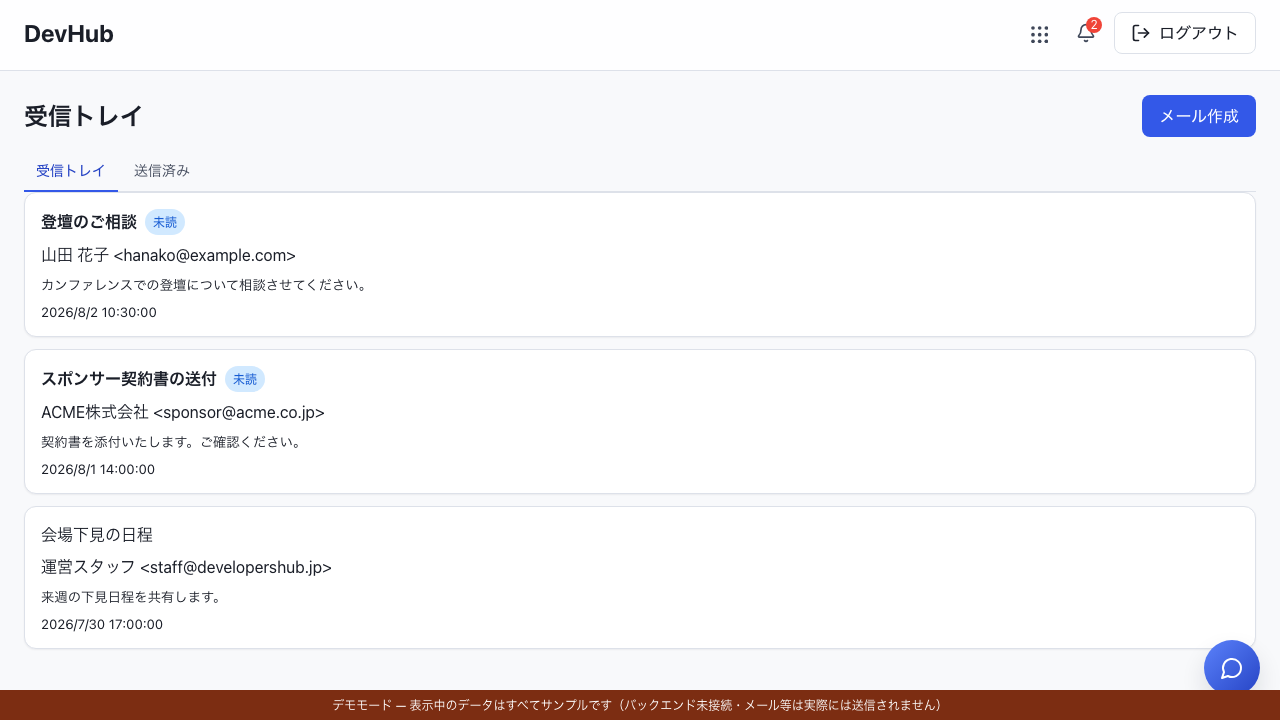
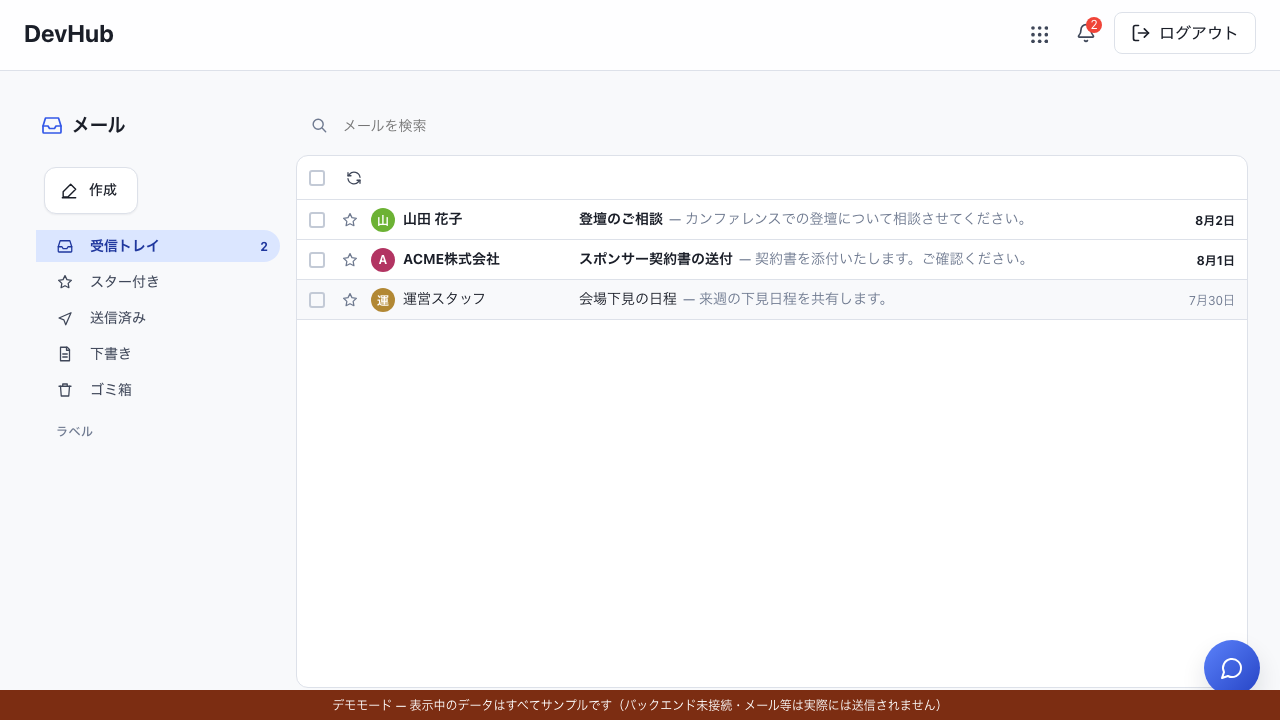
test(fe2-mail): gateway-driven GmailApp tests + reload-persistence E2E, re-captured shots
- gmail.test.tsx: asserts the EMPTY live initial state, SET_THREADS/HYDRATE_THREAD, and
  drives GmailApp render tests off the MailApi (Inbox/Sent hydrate, open loads the body,
  folder switch lists sent) via a QueryClient + seeded fake API.
- mail.test.tsx: dropped the folded-in SentScreen/MailFolderTabs specs; kept the
  listSent/getSent api-mapping tests.
- e2e/mail.spec.ts: rewritten against the real /mail GmailApp — (a) fresh load is CLEAN
  (no demo pile), (b) opening an inbox message clears its unread badge, (c) compose->send
  lands in Sent AND survives a full page reload (persisted via GET /mail/sent). Re-captured
  Inbox / Sent-after-send / message-detail screenshots.

diff --git a/apps/fe2-app-shell/src/features/mail/gmail/gmail.test.tsx b/apps/fe2-app-shell/src/features/mail/gmail/gmail.test.tsx
@@ -1,37 +1,70 @@
 // Tests for the Gmail-style mail experience: the client store reducer (stars,
-// archive+undo, trash, send, read-on-open, compose lifecycle) and a render smoke
-// test of the assembled 3-pane UI (folders, dense rows, compose window, list↔
-// reading-pane swap). All in-memory — no network.
+// archive+undo, trash, send, read-on-open, compose lifecycle) over the seeded demo
+// fixture, and a render test of the assembled 3-pane UI wired to the gateway — the
+// live app starts EMPTY and hydrates Inbox/Sent from the MailApi (no hardcoded seed).
 import { render, screen, within } from "@testing-library/react";
 import userEvent from "@testing-library/user-event";
+import { QueryClient, QueryClientProvider } from "@tanstack/react-query";
 import type { ReactNode } from "react";
 import { describe, expect, it, vi } from "vitest";
+import type { common, mail } from "@dub/types";
 import type { MailApi } from "../mailApi.tsx";
 import { MailApiProvider } from "../MailProvider.tsx";
 import { GmailApp } from "./GmailApp.tsx";
-import { reducer, initialMailState, type MailState } from "./useMailStore.tsx";
+import { reducer, demoMailState, initialMailState, type MailState } from "./useMailStore.tsx";
 import { threadUnread } from "./mailModel.ts";
 
+const INBOX: mail.MailMessageListItem[] = [
+  { id: "m1", messageId: "<m1>", threadId: "t1", from: { email: "a@x.com", name: "送信者A" }, to: [{ email: "me@developershub.jp" }], subject: "Hello", snippet: "hi there", receivedAt: "2026-08-10T00:00:00.000Z", read: false },
+  { id: "m2", messageId: "<m2>", threadId: "t2", from: { email: "b@x.com", name: "送信者B" }, to: [{ email: "me@developershub.jp" }], subject: "Second", snippet: "yo", receivedAt: "2026-08-09T00:00:00.000Z", read: true },
+];
+const SENT: mail.MailSentListItem[] = [
+  { id: "s1", to: [{ email: "c@x.com", name: "宛先C" }], subject: "送信済みの件", snippet: "sent body", sentAt: "2026-08-11T00:00:00.000Z", provider: "resend", status: "sent" },
+];
+
 function fakeApi(over: Partial<MailApi> = {}): MailApi {
+  const page = <T,>(items: T[]): common.Paginated<T> => ({ items, nextCursor: null });
   return {
-    send: vi.fn().mockResolvedValue({ messageId: "m", provider: "ses", acceptedAt: "t" }),
-    listInbox: vi.fn().mockResolvedValue({ items: [], nextCursor: null }),
+    send: vi.fn().mockResolvedValue({ messageId: "m", provider: "resend", acceptedAt: "t" }),
+    listInbox: vi.fn().mockResolvedValue(page(INBOX)),
     getMessage: vi.fn(),
-    getThread: vi.fn(),
+    getThread: vi.fn().mockResolvedValue({
+      id: "t1",
+      messages: [{ id: "m1", messageId: "<m1>", threadId: "t1", from: INBOX[0]!.from, to: INBOX[0]!.to, subject: "Hello", snippet: "hi there", receivedAt: INBOX[0]!.receivedAt, read: true, textBody: "Full inbox body." }],
+    } satisfies mail.MailThread),
     markRead: vi.fn().mockResolvedValue({ read: true }),
-    listSent: vi.fn().mockResolvedValue({ items: [], nextCursor: null }),
-    getSent: vi.fn(),
+    listSent: vi.fn().mockResolvedValue(page(SENT)),
+    getSent: vi.fn().mockResolvedValue({ ...SENT[0]!, textBody: "Full sent body." } satisfies mail.MailSentDetail),
     ...over,
   };
 }
 
-function wrap(ui: ReactNode): JSX.Element {
-  return <MailApiProvider value={fakeApi()}>{ui}</MailApiProvider>;
+function wrap(ui: ReactNode, api: MailApi = fakeApi()): JSX.Element {
+  const client = new QueryClient({ defaultOptions: { queries: { retry: false } } });
+  return (
+    <QueryClientProvider client={client}>
+      <MailApiProvider value={api}>{ui}</MailApiProvider>
+    </QueryClientProvider>
+  );
 }
 
-const base = (): MailState => ({ ...initialMailState, checked: new Set(), composes: [], undo: null });
+const base = (): MailState => ({ ...demoMailState, checked: new Set(), composes: [], undo: null });
 
 describe("mail store reducer", () => {
+  it("live initial state is EMPTY (no hardcoded demo pile)", () => {
+    expect(initialMailState.threads).toHaveLength(0);
+    expect(initialMailState.labels).toHaveLength(0);
+  });
+
+  it("SET_THREADS replaces the list (gateway hydration) and HYDRATE_THREAD fills bodies", () => {
+    const s0 = { ...initialMailState, checked: new Set<string>(), composes: [], undo: null };
+    const s1 = reducer(s0, { type: "SET_THREADS", threads: [{ id: "x", subject: "S", folder: "inbox", starred: false, labels: [], messages: [{ id: "x", from: { email: "a@x.com" }, to: [], date: "t", body: "snip", read: false }] }] });
+    expect(s1.threads).toHaveLength(1);
+    const s2 = reducer(s1, { type: "HYDRATE_THREAD", id: "x", messages: [{ id: "x", from: { email: "a@x.com" }, to: [], date: "t", body: "full body", read: true }] });
+    expect(s2.threads[0]!.hydrated).toBe(true);
+    expect(s2.threads[0]!.messages[0]!.body).toBe("full body");
+  });
+
   it("toggles a thread star", () => {
     const s = base();
     const id = s.threads[0]!.id;
@@ -92,12 +125,14 @@ describe("mail store reducer", () => {
   });
 });
 
-describe("GmailApp", () => {
-  it("renders the folder nav and dense demo rows", () => {
+describe("GmailApp (gateway-wired)", () => {
+  it("hydrates the Inbox from GET /mail/messages and shows the folder nav", async () => {
     render(wrap(<GmailApp />));
     expect(screen.getByTestId("fe2-mail-folder-inbox")).toBeInTheDocument();
     expect(screen.getByTestId("fe2-mail-folder-sent")).toBeInTheDocument();
-    expect(screen.getAllByTestId("fe2-mail-inbox-item").length).toBeGreaterThan(0);
+    const rows = await screen.findAllByTestId("fe2-mail-inbox-item");
+    expect(rows.length).toBe(INBOX.length);
+    expect(screen.getByText("Hello")).toBeInTheDocument();
   });
 
   it("opens a floating compose window from the compose button", async () => {
@@ -107,26 +142,28 @@ describe("GmailApp", () => {
     expect(screen.getByTestId("fe2-mail-compose-to")).toBeInTheDocument();
   });
 
-  it("opens the reading pane when a row is clicked", async () => {
+  it("opens the reading pane (and loads the body) when a row is clicked", async () => {
     render(wrap(<GmailApp />));
-    const firstRow = screen.getAllByTestId("fe2-mail-inbox-item")[0]!;
+    const firstRow = (await screen.findAllByTestId("fe2-mail-inbox-item"))[0]!;
     await userEvent.click(firstRow);
     expect(screen.getByTestId("fe2-mail-thread")).toBeInTheDocument();
     expect(screen.getByTestId("fe2-mail-reply")).toBeInTheDocument();
+    expect(await screen.findByText("Full inbox body.")).toBeInTheDocument();
   });
 
-  it("switches folders from the sidebar", async () => {
+  it("switches to the Sent folder and lists sent mail from GET /mail/sent", async () => {
     render(wrap(<GmailApp />));
+    await screen.findAllByTestId("fe2-mail-inbox-item");
     await userEvent.click(screen.getByTestId("fe2-mail-folder-sent"));
     const list = screen.getByTestId("fe2-mail-inbox");
-    // Sent demo threads exist, so the list still has rows under the Sent view.
-    expect(within(list).getAllByTestId("fe2-mail-inbox-item").length).toBeGreaterThan(0);
+    const rows = await within(list).findAllByTestId("fe2-mail-inbox-item");
+    expect(rows.length).toBe(SENT.length);
+    expect(screen.getByText("送信済みの件")).toBeInTheDocument();
   });
 
   it("toggles a star from a list row", async () => {
     render(wrap(<GmailApp />));
-    const firstStar = screen.getAllByTestId("fe2-mail-star")[0]!;
-    // Should not throw and should keep the row present after toggling.
+    const firstStar = (await screen.findAllByTestId("fe2-mail-star"))[0]!;
     await userEvent.click(firstStar);
     expect(screen.getAllByTestId("fe2-mail-inbox-item").length).toBeGreaterThan(0);
   });

diff --git a/apps/fe2-app-shell/e2e/mail.spec.ts b/apps/fe2-app-shell/e2e/mail.spec.ts
@@ -1,10 +1,11 @@
-// Mail vertical slice E2E (real browser, DEMO transport). Covers:
-//   (a) compose → send → the mail appears in the Sent folder;
-//   (b) the inbox lists the seeded received mail and opening one clears its unread badge;
-//   (c) Inbox + Sent show a CLEAN state (a small sample set + an initially empty Sent),
-//       never the "weird demo pile" (which was live prod rows, not seed data).
-// All navigation after the first goto is SPA (in-app clicks) so the in-memory demo
-// mail store — where the just-sent message lives — survives until the assertion.
+// Mail vertical slice E2E (real browser, DEMO transport) against the ONE mail UI the
+// user actually uses: the Gmail-style /mail app, now wired to the live gateway. Covers:
+//   (a) fresh load shows a CLEAN gateway-backed mailbox — NO hardcoded demo pile;
+//   (b) opening an inbox message clears its unread badge (mark-read via the API);
+//   (c) compose → send → the mail appears in Sent AND survives a full page reload
+//       (persisted via GET /mail/sent, not ephemeral client state).
+// The demo transport persists Sent in sessionStorage, so a reload behaves like a real
+// gateway. Screenshots: Inbox, message detail, Sent-after-send.
 import { test, expect } from "@playwright/test";
 import { mkdirSync } from "node:fs";
 import { fileURLToPath } from "node:url";
@@ -15,52 +16,51 @@ const SHOTS = join(HERE, "..", "screenshots");
 mkdirSync(SHOTS, { recursive: true });
 const shot = (name: string): string => join(SHOTS, name);
 
-test("compose → send → Sent, and opening an inbox message clears its unread badge", async ({ page }) => {
-  // ---- Inbox: seeded received mail, CLEAN small set ----
-  await page.goto("/mail/inbox");
-  await expect(page.getByTestId("fe2-mail-inbox")).toBeVisible();
+test("clean gateway-backed mailbox: read clears unread, compose persists to Sent across reload", async ({ page }) => {
+  await page.goto("/mail");
+  const app = page.getByTestId("fe2-mail-gmail");
+  await expect(app).toBeVisible();
+
+  // (a) Inbox hydrated from GET /mail/messages — a small CLEAN sample, NOT the old
+  // client-seeded pile (northcloud / print-hokuriku / キックオフ threads are gone).
   const rows = page.getByTestId("fe2-mail-inbox-item");
   await expect(rows.first()).toBeVisible();
-  const rowCount = await rows.count();
-  expect(rowCount).toBeGreaterThan(0);
-  expect(rowCount).toBeLessThanOrEqual(5); // clean sample, not a demo pile
+  expect(await rows.count()).toBeLessThanOrEqual(5);
+  await expect(page.getByText("ノースクラウド", { exact: false })).toHaveCount(0);
+  await expect(page.getByText("キックオフのお知らせ", { exact: false })).toHaveCount(0);
   await page.screenshot({ path: shot("01-inbox.png"), fullPage: true });
 
-  // (b) unread badges present, then opening the first message clears one.
-  const unreadBefore = await page.getByTestId("fe2-mail-inbox-unread").count();
-  expect(unreadBefore).toBeGreaterThan(0);
-
+  // (b) unread badge (data-unread) drops by one when the first message is opened.
+  await expect(app).toHaveAttribute("data-unread", "2");
   await rows.first().click();
   await expect(page.getByTestId("fe2-mail-thread")).toBeVisible();
+  await expect(page.getByTestId("fe2-mail-body-text").first()).toBeVisible();
+  await expect(app).toHaveAttribute("data-unread", "1");
   await page.screenshot({ path: shot("03-message-detail.png"), fullPage: true });
   await page.getByTestId("fe2-mail-thread-back").click();
 
-  await expect(page.getByTestId("fe2-mail-inbox")).toBeVisible();
-  await expect(page.getByTestId("fe2-mail-inbox-unread")).toHaveCount(unreadBefore - 1);
+  // Sent starts CLEAN (empty).
+  await page.getByTestId("fe2-mail-folder-sent").click();
+  await expect(page.getByTestId("fe2-mail-inbox-empty")).toBeVisible();
 
-  // ---- Sent starts CLEAN (empty) ----
-  await page.getByTestId("fe2-mail-folders-tab-sent").click();
-  await expect(page.getByTestId("fe2-mail-sent")).toBeVisible();
-  await expect(page.getByTestId("fe2-mail-sent-empty")).toBeVisible();
-
-  // ---- (a) compose → send ----
+  // (c) compose → send via POST /outbox.
   const subject = `E2E 送信テスト ${Date.now()}`;
-  await page.getByTestId("fe2-mail-sent-compose").click();
-  await expect(page.getByTestId("fe2-mail-compose")).toBeVisible();
-  await page.getByTestId("fe2-mail-compose-to").fill("teammate@example.com");
+  await page.getByTestId("fe2-mail-compose-open").click();
+  await expect(page.getByTestId("fe2-mail-compose-window")).toBeVisible();
+  const to = page.getByTestId("fe2-mail-compose-to");
+  await to.fill("teammate@example.com");
+  await to.press("Enter");
   await page.getByTestId("fe2-mail-compose-subject").fill(subject);
   await page.getByTestId("fe2-mail-compose-body").fill("これはE2Eの送信本文です。");
   await page.getByTestId("fe2-mail-compose-send").click();
 
-  // Post-send redirect lands in Sent; the just-sent mail is listed.
-  await expect(page.getByTestId("fe2-mail-sent")).toBeVisible();
-  const sentRows = page.getByTestId("fe2-mail-sent-item");
-  await expect(sentRows).toHaveCount(1);
+  // Lands in Sent; the just-sent mail is listed (read back from GET /mail/sent).
   await expect(page.getByText(subject)).toBeVisible();
   await page.screenshot({ path: shot("02-sent-after-send.png"), fullPage: true });
 
-  // Opening the sent message shows its full body.
-  await sentRows.first().click();
-  await expect(page.getByTestId("fe2-mail-sent-detail")).toBeVisible();
-  await expect(page.getByTestId("fe2-mail-sent-body-text")).toContainText("これはE2Eの送信本文です。");
+  // Survives a full reload — Sent is persisted server-side (mock: sessionStorage).
+  await page.reload();
+  await expect(page.getByTestId("fe2-mail-gmail")).toBeVisible();
+  await page.getByTestId("fe2-mail-folder-sent").click();
+  await expect(page.getByText(subject)).toBeVisible();
 });

diff --git a/apps/fe2-app-shell/src/features/mail/mail.test.tsx b/apps/fe2-app-shell/src/features/mail/mail.test.tsx
@@ -14,11 +14,10 @@ import { createMailApi, isValidEmail, parseRecipients, type MailApi } from "./ma
 import { MailApiProvider } from "./MailProvider.tsx";
 import { ComposeScreen } from "./ComposeScreen.tsx";
 import { InboxScreen } from "./InboxScreen.tsx";
-import { SentScreen } from "./SentScreen.tsx";
 import { ThreadDetail } from "./MessageDetail.tsx";
 
-// MailFolderTabs (rendered by Inbox/Sent screens) uses the shell router's useNavigate;
-// screens are unit-tested in isolation (no RouterProvider), so stub it to a no-op.
+// ComposeScreen navigates to /mail on send via the shell router's useNavigate; screens
+// are unit-tested in isolation (no RouterProvider), so stub it to a no-op.
 const navigateSpy = vi.fn();
 vi.mock("@tanstack/react-router", () => ({ useNavigate: () => navigateSpy }));
 
@@ -177,21 +176,6 @@ function fullApi(over: Partial<MailApi> = {}): MailApi {
   };
 }
 
-function sentListItem(over: Partial<mail.MailSentListItem> = {}): mail.MailSentListItem {
-  return {
-    id: "s1",
-    to: [{ email: "bob@x.com", name: "Bob" }],
-    subject: "Report",
-    snippet: "Here is the report.",
-    sentAt: "2026-08-11T00:00:00.000Z",
-    provider: "resend",
-    status: "sent",
-    ...over,
-  };
-}
-function sentDetail(over: Partial<mail.MailSentDetail> = {}): mail.MailSentDetail {
-  return { ...sentListItem(), textBody: "Here is the report body.", ...over };
-}
 
 describe("InboxScreen", () => {
   it("renders the empty state when there are no messages", async () => {
@@ -243,47 +227,6 @@ describe("InboxScreen", () => {
     render(wrap(<InboxScreen />, api));
     await userEvent.click(await screen.findByTestId("fe2-mail-inbox-item"));
     expect(markRead).not.toHaveBeenCalled();
-  });
-});
-
-describe("SentScreen", () => {
-  it("renders the empty state when nothing has been sent", async () => {
-    const api = fullApi();
-    render(wrap(<SentScreen />, api));
-    expect(await screen.findByTestId("fe2-mail-sent-empty")).toBeInTheDocument();
-  });
-
-  it("renders sent messages with recipients and a folder switch", async () => {
-    const page: common.Paginated<mail.MailSentListItem> = { items: [sentListItem()], nextCursor: null };
-    const api = fullApi({ listSent: vi.fn().mockResolvedValue(page) });
-    render(wrap(<SentScreen />, api));
-    expect(await screen.findByText("Report")).toBeInTheDocument();
-    expect(screen.getByText("宛先: Bob <bob@x.com>")).toBeInTheDocument();
-    // Inbox / Sent folder tabs are present, Sent active.
-    expect(screen.getByTestId("fe2-mail-folders")).toBeInTheDocument();
-    expect(screen.getByTestId("fe2-mail-folders-tab-sent")).toHaveAttribute("aria-selected", "true");
-  });
-
-  it("opens the sent detail with the full body on click", async () => {
-    const page: common.Paginated<mail.MailSentListItem> = { items: [sentListItem()], nextCursor: null };
-    const getSent = vi.fn().mockResolvedValue(sentDetail({ textBody: "Full sent body." }));
-    const api = fullApi({ listSent: vi.fn().mockResolvedValue(page), getSent });
-    render(wrap(<SentScreen />, api));
-
-    await userEvent.click(await screen.findByTestId("fe2-mail-sent-item"));
-    expect(getSent).toHaveBeenCalledWith("s1");
-    expect(await screen.findByTestId("fe2-mail-sent-detail")).toBeInTheDocument();
-    expect(screen.getByText("Full sent body.")).toBeInTheDocument();
-  });
-});
-
-describe("MailFolderTabs (via InboxScreen)", () => {
-  it("navigates to /mail/sent when the Sent tab is clicked", async () => {
-    navigateSpy.mockClear();
-    render(wrap(<InboxScreen />, fullApi()));
-    await screen.findByTestId("fe2-mail-inbox-empty");
-    await userEvent.click(screen.getByTestId("fe2-mail-folders-tab-sent"));
-    expect(navigateSpy).toHaveBeenCalledWith({ to: "/mail/sent" });
   });
 });
 
